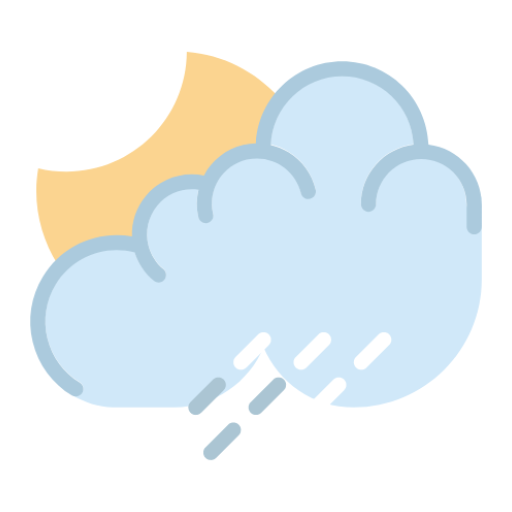
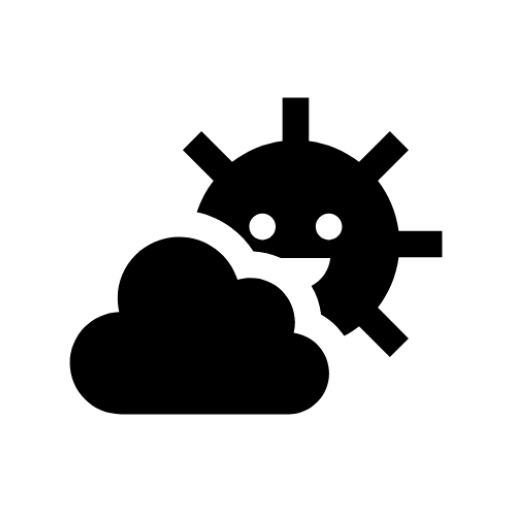
Jetpack Weather
Themed icon

diff --git a/app/src/main/java/com/agelousis/jetpackweather/weather/ui/WeatherActivityUI.kt b/app/src/main/java/com/agelousis/jetpackweather/weather/ui/WeatherActivityUI.kt
@@ -7,7 +7,6 @@ import androidx.activity.compose.BackHandler
 import androidx.activity.compose.rememberLauncherForActivityResult
 import androidx.activity.result.contract.ActivityResultContracts
 import androidx.compose.animation.Crossfade
-import androidx.compose.animation.rememberSplineBasedDecay
 import androidx.compose.foundation.Image
 import androidx.compose.foundation.layout.*
 import androidx.compose.material.icons.Icons
@@ -15,11 +14,9 @@ import androidx.compose.material.icons.filled.*
 import androidx.compose.material3.*
 import androidx.compose.material3.Icon
 import androidx.compose.material3.IconButton
-import androidx.compose.material3.MaterialTheme
 import androidx.compose.runtime.*
 import androidx.compose.ui.Alignment
 import androidx.compose.ui.Modifier
-import androidx.compose.ui.input.nestedscroll.nestedScroll
 import androidx.compose.ui.platform.LocalContext
 import androidx.compose.ui.res.painterResource
 import androidx.compose.ui.res.stringResource
@@ -31,9 +28,12 @@ import androidx.navigation.compose.composable
 import androidx.navigation.compose.rememberNavController
 import com.agelousis.jetpackweather.R
 import com.agelousis.jetpackweather.mapAddressPicker.MapAddressPickerActivity
+import com.agelousis.jetpackweather.network.repositories.SuccessUnitBlock
+import com.agelousis.jetpackweather.ui.composableView.SimpleDialog
 import com.agelousis.jetpackweather.ui.composableView.WeatherBottomNavigation
 import com.agelousis.jetpackweather.ui.composableView.WeatherDrawerNavigation
-import com.agelousis.jetpackweather.ui.composableView.WeatherTopAppBar
+import com.agelousis.jetpackweather.ui.composableView.WeatherSmallTopAppBar
+import com.agelousis.jetpackweather.ui.composableView.models.SimpleDialogDataModel
 import com.agelousis.jetpackweather.ui.theme.Typography
 import com.agelousis.jetpackweather.utils.extensions.arePermissionsGranted
 import com.agelousis.jetpackweather.utils.helpers.LocationHelper
@@ -62,17 +62,34 @@ fun WeatherActivityBottomNavigationLayout(
 ) {
     val context = LocalContext.current
     val navController = rememberNavController()
+    val showDialogState by viewModel.showDialog.collectAsState()
+    var requestLocationOnStartupState by remember {
+        mutableStateOf(value = true)
+    }
     val onBack: () -> Unit = {
         navController.navigateUp()
     }
     BackHandler(
         onBack = onBack
     )
-    val decayAnimationSpec = rememberSplineBasedDecay<Float>()
+    SimpleDialog(
+        show = showDialogState,
+        simpleDialogDataModel = SimpleDialogDataModel(
+            title = viewModel.alertPair.first ?: "",
+            message = viewModel.alertPair.second ?: "",
+            positiveButtonBlock = {
+                viewModel.onDialogConfirm()
+            },
+            dismissBlock = {
+                viewModel.onDialogDismiss()
+            }
+        )
+    )
+    /*val decayAnimationSpec = rememberSplineBasedDecay<Float>()
     val scrollBehavior = TopAppBarDefaults.exitUntilCollapsedScrollBehavior(
         decayAnimationSpec = decayAnimationSpec,
         state = rememberTopAppBarScrollState()
-    )
+    )*/
     val addressDataModel by viewModel.addressDataModelStateFlow.collectAsState()
     val mapAddressPickerLauncher = rememberLauncherForActivityResult(
         contract = ActivityResultContracts.StartActivityForResult()
@@ -90,9 +107,11 @@ fun WeatherActivityBottomNavigationLayout(
     }
     requestLocation(
         context = context,
+        state = requestLocationOnStartupState,
         viewModel = viewModel
-    )
-
+    ) {
+        requestLocationOnStartupState = false
+    }
     val scope = rememberCoroutineScope()
     val drawerState = rememberDrawerState(DrawerValue.Closed)
     WeatherDrawerNavigation(
@@ -126,16 +145,16 @@ fun WeatherActivityBottomNavigationLayout(
         }
     ) {
         Scaffold(
-            modifier = Modifier.nestedScroll(
+            /*modifier = Modifier.nestedScroll(
                 connection = scrollBehavior.nestedScrollConnection
-            ),
+            ),*/
             topBar = {
-                WeatherTopAppBar(
+                WeatherSmallTopAppBar(
                     title = viewModel.weatherUiAppBarTitle ?: stringResource(
                         id = R.string.app_name
                     ),
-                    scrolledContainerColor = MaterialTheme.colorScheme.surface,
-                    scrollBehavior = scrollBehavior,
+                    //scrolledContainerColor = MaterialTheme.colorScheme.surface,
+                    //scrollBehavior = scrollBehavior,
                     navigationIcon = Icons.Filled.Menu,
                     navigationIconBlock = {
                         scope.launch {
@@ -294,12 +313,15 @@ private fun LocationPermissionRequest(
 
 private fun requestLocation(
     context: Context,
+    state: Boolean = true,
     viewModel: WeatherViewModel,
+    successUnitBlock: SuccessUnitBlock = {}
 ) {
     if (context.arePermissionsGranted(
             android.Manifest.permission.ACCESS_COARSE_LOCATION,
             android.Manifest.permission.ACCESS_FINE_LOCATION
         )
+        && state
     )
         LocationHelper(
             context = context,
@@ -316,6 +338,7 @@ private fun requestLocation(
                 longitude = it.longitude,
                 latitude = it.latitude
             )
+            successUnitBlock()
         }
 }
 

diff --git a/app/src/main/java/com/agelousis/jetpackweather/network/response/CurrentWeatherDataModel.kt b/app/src/main/java/com/agelousis/jetpackweather/network/response/CurrentWeatherDataModel.kt
@@ -2,6 +2,9 @@ package com.agelousis.jetpackweather.network.response
 
 import android.content.Context
 import com.agelousis.jetpackweather.R
+import com.agelousis.jetpackweather.utils.constants.Constants
+import com.agelousis.jetpackweather.utils.extensions.temperatureUnitType
+import com.agelousis.jetpackweather.weather.enumerations.TemperatureUnitType
 import com.google.gson.annotations.SerializedName
 import java.lang.StringBuilder
 
@@ -9,7 +12,7 @@ data class CurrentWeatherDataModel(
     @SerializedName(value = "last_updated_epoch") val valpdatedEpoch: Long?,
     @SerializedName(value = "last_updated") val lastUpdated: String?,
     @SerializedName(value = "temp_c") val tempC: Double?,
-    @SerializedName(value = "temp_f") val temp_f: Double?,
+    @SerializedName(value = "temp_f") val tempF: Double?,
     @SerializedName(value = "is_day") val isDay: Int?,
     @SerializedName(value = "condition") val weatherConditionDataModel: WeatherConditionDataModel?,
     @SerializedName(value = "wind_mph") val windMph: Double?,
@@ -22,8 +25,8 @@ data class CurrentWeatherDataModel(
     @SerializedName(value = "precip_in") val precipIn: Double?,
     @SerializedName(value = "humidity") val humidity: Int?,
     @SerializedName(value = "cloud") val cloud: Int?,
-    @SerializedName(value = "feelslike_c") val feelslikeC: Double?,
-    @SerializedName(value = "feelslike_f") val feelslikeF: Double?,
+    @SerializedName(value = "feelslike_c") val feelsLikeC: Double?,
+    @SerializedName(value = "feelslike_f") val feelsLikeF: Double?,
     @SerializedName(value = "vis_km") val visKm: Double?,
     @SerializedName(value = "vis_miles") val visMiles: Double?,
     @SerializedName(value = "uv") val uv: Double?,
@@ -32,15 +35,29 @@ data class CurrentWeatherDataModel(
     @SerializedName(value = "air_quality") val airQuality: WeatherAirQualityDataModel?,
 ) {
 
-    val celsiusTemperature
-        get() = "%d °C".format(
-            tempC?.toInt() ?: 0
-        )
+    fun currentTemperatureUnitFormatted(context: Context) =
+        when(context.getSharedPreferences(Constants.SharedPreferencesKeys.WEATHER_SHARED_PREFERENCES_KEY, Context.MODE_PRIVATE).temperatureUnitType) {
+            TemperatureUnitType.FAHRENHEIT ->
+                "%d °F".format(
+                    tempF?.toInt() ?: 0
+                )
+            else ->
+                "%d °C".format(
+                    tempC?.toInt() ?: 0
+                )
+        }
 
-    val feelsLikeCelsiusTemperature
-        get() = "%d °C".format(
-            feelslikeC?.toInt() ?: 0
-        )
+    fun feelsLikeTemperatureUnitFormatted(context: Context) =
+        when(context.getSharedPreferences(Constants.SharedPreferencesKeys.WEATHER_SHARED_PREFERENCES_KEY, Context.MODE_PRIVATE).temperatureUnitType) {
+            TemperatureUnitType.FAHRENHEIT ->
+                "%d °F".format(
+                    feelsLikeF?.toInt() ?: 0
+                )
+            else ->
+                "%d °C".format(
+                    feelsLikeC?.toInt() ?: 0
+                )
+        }
 
     val isDayBool
         get() = isDay == 1

diff --git a/app/src/main/java/com/agelousis/jetpackweather/weather/ui/TodayWeatherUI.kt b/app/src/main/java/com/agelousis/jetpackweather/weather/ui/TodayWeatherUI.kt
@@ -37,23 +37,11 @@ fun TodayWeatherLayout(
     contentPadding: PaddingValues
 ) {
     val context = LocalContext.current
-    val showDialogState by viewModel.showDialog.collectAsState()
     val loaderState by viewModel.loaderStateStateFlow.collectAsState()
     val weatherResponseModel by viewModel.weatherResponseLiveData.observeAsState()
     val isRefreshing by viewModel.swipeRefreshStateFlow.collectAsState()
-    SimpleDialog(
-        show = showDialogState,
-        simpleDialogDataModel = SimpleDialogDataModel(
-            title = viewModel.alertPair.first ?: "",
-            message = viewModel.alertPair.second ?: "",
-            positiveButtonBlock = {
-                viewModel.onDialogConfirm()
-            },
-            dismissBlock = {
-                viewModel.onDialogDismiss()
-            }
-        )
-    )
+
+
     if (isRefreshing)
         requestWeather(
             context = context,
@@ -61,6 +49,7 @@ fun TodayWeatherLayout(
             longitude = viewModel.addressDataModelStateFlow.value?.longitude ?: 0.0,
             latitude = viewModel.addressDataModelStateFlow.value?.latitude ?: 0.0
         )
+
     ConstraintLayout(
         modifier = Modifier
             .fillMaxSize()
@@ -144,7 +133,7 @@ fun TodayWeatherLayout(
                     }
             }
         }
-        if (loaderState)
+        if (loaderState && !isRefreshing)
             CircularProgressIndicator(
                 modifier = Modifier
                     .constrainAs(progressIndicatorConstrainedReference) {

diff --git a/app/src/main/java/com/agelousis/jetpackweather/weather/rows/CurrentTemperatureRowUI.kt b/app/src/main/java/com/agelousis/jetpackweather/weather/rows/CurrentTemperatureRowUI.kt
@@ -40,7 +40,9 @@ fun CurrentTemperatureRowLayout(
             conditionConstrainedReference, feelsLikeLabelConstrainedReference,
             windLayoutRow) = createRefs()
         Text(
-            text = weatherResponseModel?.currentWeatherDataModel?.celsiusTemperature ?: "",
+            text = weatherResponseModel?.currentWeatherDataModel?.currentTemperatureUnitFormatted(
+                context = context
+            ) ?: "",
             style = textViewHeaderFont,
             modifier = Modifier
                 .constrainAs(temperatureLabelConstrainedReference) {
@@ -84,7 +86,9 @@ fun CurrentTemperatureRowLayout(
             Text(
                 text = stringResource(
                     id = R.string.key_feels_like_label,
-                    weatherResponseModel.currentWeatherDataModel?.feelsLikeCelsiusTemperature ?: ""
+                    weatherResponseModel.currentWeatherDataModel?.feelsLikeTemperatureUnitFormatted(
+                        context = context
+                    ) ?: ""
                 ),
                 style = Typography.bodyMedium,
                 color = colorResource(id = R.color.grey),

diff --git a/app/src/main/java/com/agelousis/jetpackweather/weather/viewModel/WeatherViewModel.kt b/app/src/main/java/com/agelousis/jetpackweather/weather/viewModel/WeatherViewModel.kt
@@ -131,7 +131,7 @@ class WeatherViewModel: ViewModel() {
         airQualityState: Boolean,
         alertsState: Boolean
     ) {
-        loaderStateMutableStateFlow.value = true
+        loaderStateMutableStateFlow.value = !swipeRefreshStateFlow.value
         WeatherRepository.requestForecast(
             location = location,
             days = days,

diff --git a/app/src/main/java/com/agelousis/jetpackweather/network/repositories/WeatherRepository.kt b/app/src/main/java/com/agelousis/jetpackweather/network/repositories/WeatherRepository.kt
@@ -8,6 +8,7 @@ import retrofit2.Call
 import retrofit2.Callback
 import retrofit2.Response
 
+typealias SuccessUnitBlock = () -> Unit
 typealias SuccessBlock<T> = (T) -> Unit
 typealias FailureBlock = (ErrorModel) -> Unit
 
